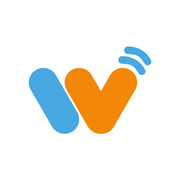
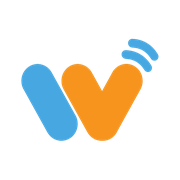
rpo: ファビコンをWorCryのWマークに

Changed region(s): [[0.1111, 0.1944, 0.8889, 0.8056], [0.5833, 0.3889, 0.6389, 0.4722]]

diff --git a/rpo/index.html b/rpo/index.html
@@ -11,9 +11,11 @@
 <title>AOHARU RPO｜新卒採用に特化したRPO（採用代行）</title>
 <meta name="description" content="新卒採用に、ハイタッチを。AOHARU RPOは新卒採用だけに特化した採用代行です。採用戦略から面接・クロージング・内定者フォロー・入社後の研修まで、代表が責任者として並走します。">
 <link rel="canonical" href="https://aoharu-intern.worcry.com/rpo/">
-<link rel="icon" type="image/png" sizes="32x32" href="icon-32.png">
-<link rel="icon" type="image/png" sizes="16x16" href="icon-16.png">
-<link rel="apple-touch-icon" href="apple-touch-icon.png">
+<link rel="icon" href="favicon.svg?v=2" type="image/svg+xml">
+<link rel="icon" type="image/png" sizes="32x32" href="icon-32.png?v=2">
+<link rel="icon" type="image/png" sizes="16x16" href="icon-16.png?v=2">
+<link rel="icon" type="image/png" sizes="192x192" href="icon-192.png?v=2">
+<link rel="apple-touch-icon" href="apple-touch-icon.png?v=2">
 <meta name="theme-color" content="#26272D">
 <meta property="og:type" content="website">
 <meta property="og:site_name" content="AOHARU RPO">
